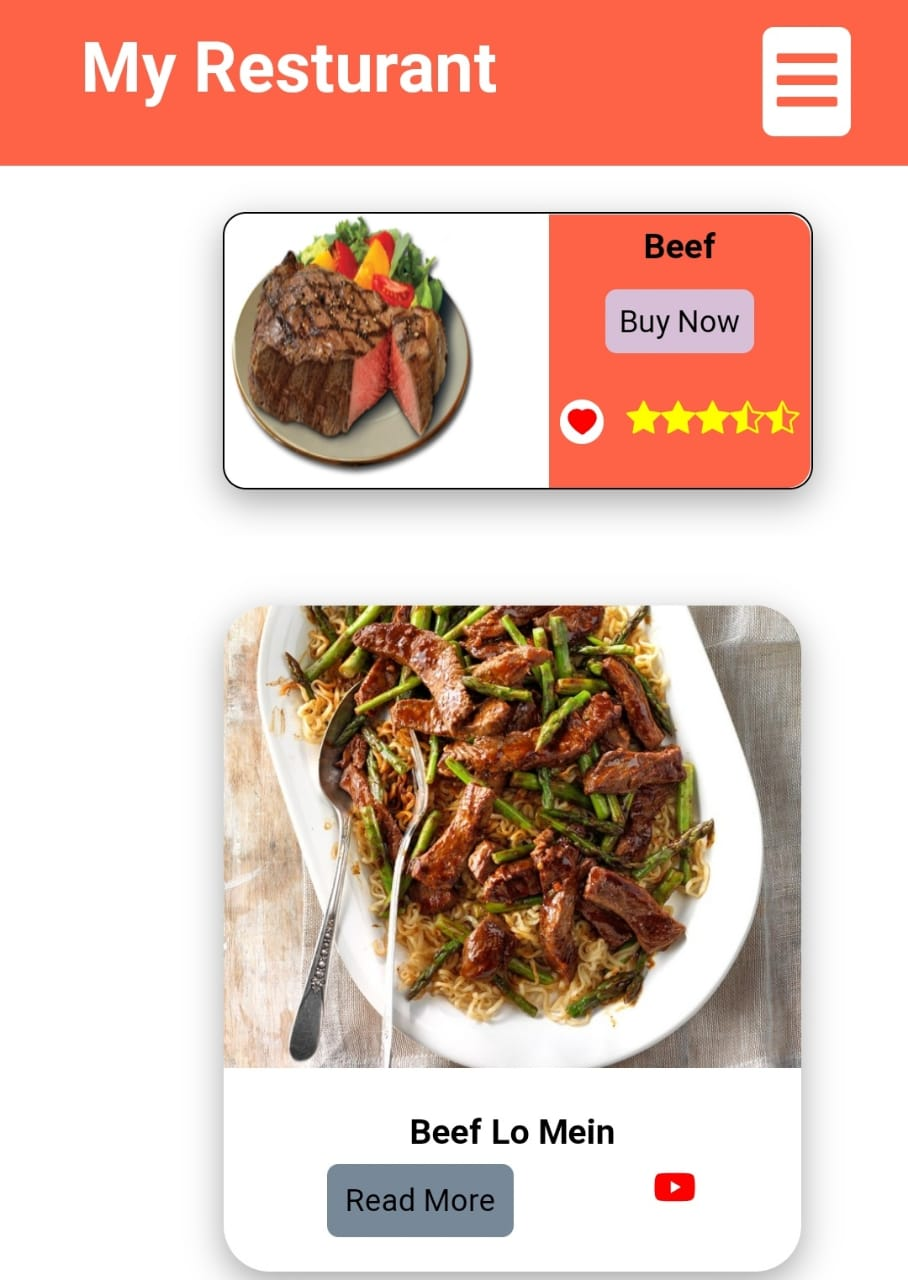
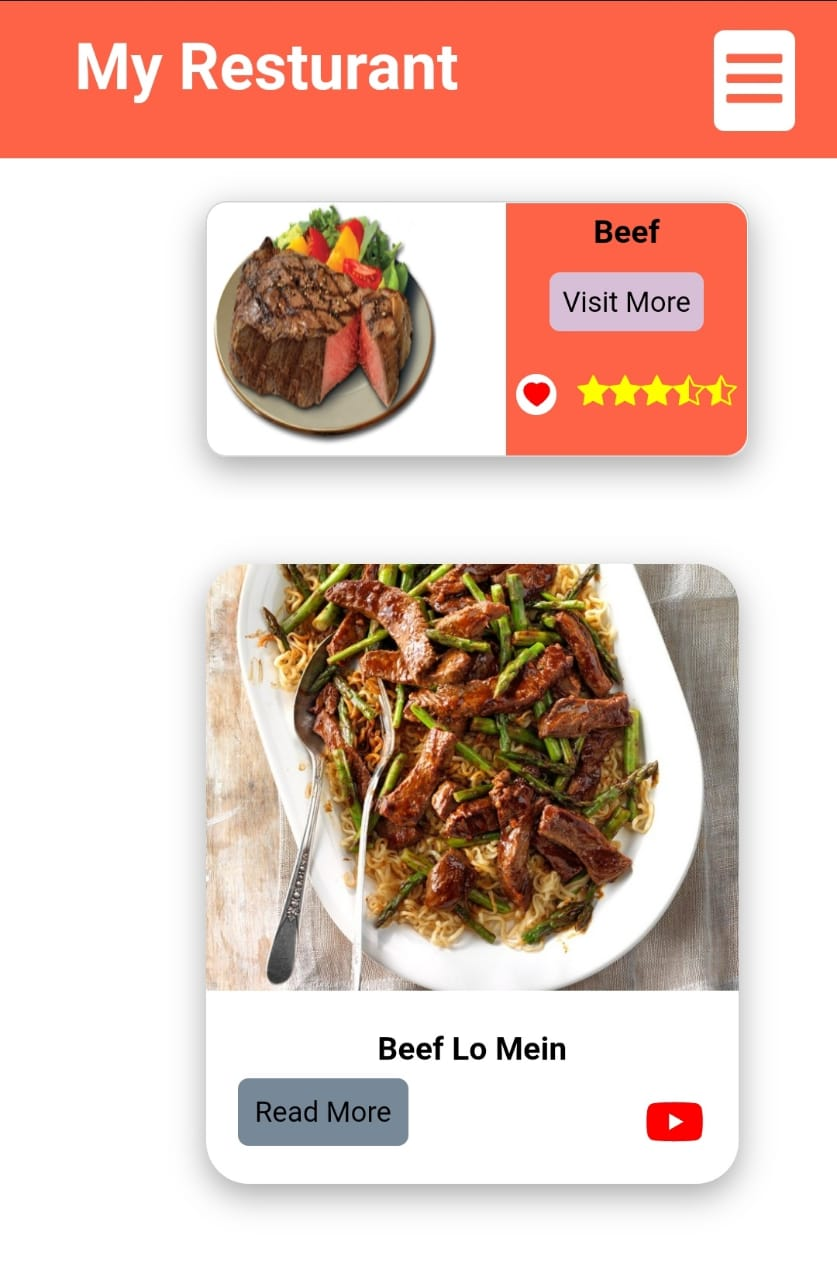
i changed some images

diff --git a/src/App.js b/src/App.js
@@ -1,12 +1,11 @@
-import React, { useState } from 'react';
+import React from 'react';
 import { Switch, Route } from 'react-router-dom';
 import Navbar from './Componets/Navbar';
 import About from './Componets/About';
 import Home from './Componets/Home';
 import Portfolio from './Componets/Portfolio';
-import { FaCheck } from 'react-icons/fa';
-import { IoIosAddCircle } from 'react-icons/io';
-import Card from './Componets/Card';
+
+
 
 
 

diff --git a/src/Componets/ApiData.js b/src/Componets/ApiData.js
@@ -5,7 +5,7 @@ const Data = [
 	{
 		id: 1,
 		titel: 'My Resturant',
-		images: './images/food-app.jpg',
+		images: '../images/food-app.jpg',
 		url: 'https://food---app.herokuapp.com/'
 	},
 	{
@@ -20,7 +20,7 @@ const Data = [
 	{
 		id: 3,
 		titel: 'Weather App',
-		images: './images/weather.jpg',
+		images: './images/Weather-app.jpg',
 		url: 'https://weather--app9.herokuapp.com/'
 	},
 ]

diff --git a/Card.js b/Card.js
@@ -1,19 +1,5 @@
 import React from 'react'
 
-
-
-
-const Cars = [
-	{
-		'name': 'bmw',
-		'modal': '2001',
-		'price': '40lks',
-		'img': 'https://stimg.cardekho.com/images/carexteriorimages/630x420/BMW/X1/7625/1583398555726/front-left-side-47.jpg?impolicy=resize&imwidth=480',
-	},
-	{
-		'name': ''
-	}
-]
 function Card() {
 	return (
 		<>

diff --git a/src/Componets/Home.js b/src/Componets/Home.js
@@ -1,7 +1,6 @@
 import React from 'react'
 import Typewriter from 'typewriter-effect'
 import Card from './Card';
-
 import About from './About';
 import Data from './ApiData';
 
